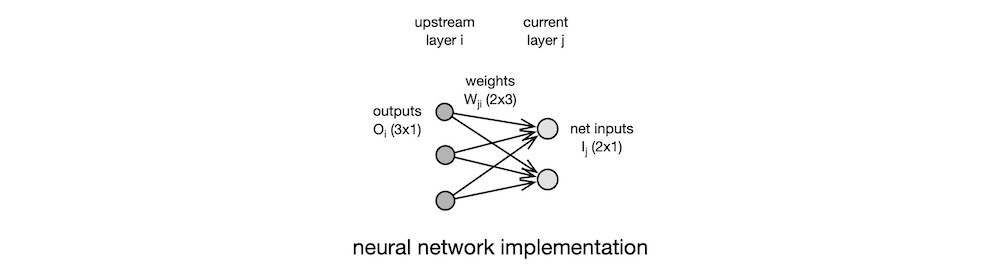
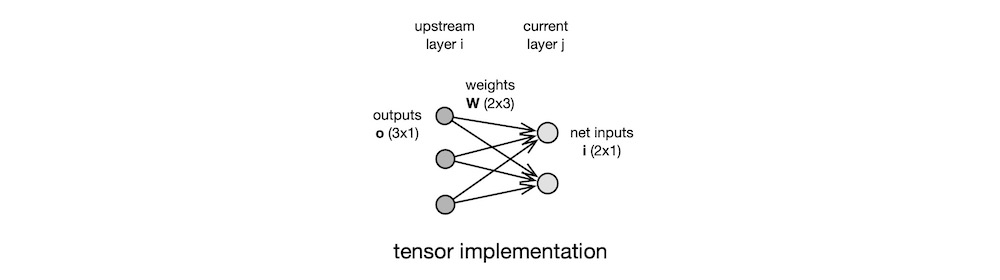
tidy

diff --git a/stem/AI/HowAIWorks.md b/stem/AI/HowAIWorks.md
@@ -117,17 +117,23 @@ A more recent use of NNs is in *generating*. It is now possible to train an NN o
 
 There are many variants of NN architectures and algorithms, and there are endless varieties of non-NN AI techniques. But as I mentioned above, this article is not a survey of the state-of-the-art; it focuses on the fundamental NN concepts that will enable you to comprehend how modern AI work. To that end, I describe in this section two classic networks, one unsupervised and the other supervised, and a handful of commonly used DL architectures. I also explain below a few important feature extraction techniques.
 
+One who learned calculus in high school is expected to be able to solve general, rate-related problems that he will encounter in his future STEM career. Likewise, a network that learned a data set drawn from a problem domain is expected to solve general problems in that domain. Yet, classic NNs were susceptible to over specialisation, which severely constrain their ability generalise. The over-specialisation problem was particularly acute in the old days, when data sets were small and networks smaller. Numerous techniques were developed to tackle this problem, but the biggest hurdle was the availability of a representative data set that covered the sample space adequately. This problem has been eliminated in the Era of Data. And modern DL algorithms have sophisticated ways to avoid over specialisation.
+
 ## *vectors, matrices, and tensors*
 
-Before we delve into the algorithms, I would like to digress into the matter of implementation. Modern implementations of NN algorithms use first-order tensors (vectors), second-order tensors (matrices), and higher-order tensors. Conventionally, 1D data (audio signal, seismic signal, etc.) are represented with column vectors, 2D data (photographs, satellite images, etc.) are represented with matrices, and 3D data (volumetric simulation state, CT scan, etc.) are represented with tensors. Hence, a data set of 1D vectors forms a 2D matrix, a data set of 2D matrices forms a 3D tensor, and a data set of 3D tensors form a 4D tensor. Furthermore, the weights $w_{ji}$ of a layer of neurons is represented with a matrix, and multiple layers of weights thus form a 3D tensor.
+Before we delve into the algorithms, I would like to digress into the matter of implementation. Modern implementations of NN algorithms use zero-order tensors (scalars), first-order tensors (vectors), second-order tensors (matrices), and higher-order tensors. Conventionally, 1D data (audio signal, seismic record, etc.) are represented with column vectors, 2D data (photographs, satellite images, etc.) are represented with matrices, and 3D data (CFD simulation, CT scan, etc.) are represented with tensors. A collection of 1D vectors forms a 2D matrix, a collection of 2D matrices forms a 3D tensor, a collection of 3D tensors form a 4D tensor, and so on. Furthermore, all the weights $w_{ji}$ of a layer of neurons is represented with a matrix, so the collection of all weight layers in the network forms a 3D tensor.
 
-Say, we have a layer of neurons $n_j$, whose weights $w_{ji}$ are represented with the matrix $W$. The row vector $W_j$ represents the weights associated with the connections coming from all the neurons $n_i$ in the upstream layer into the single neuron $n_j$ in the current layer. The scalar $W_{ji}$ is the weight associated with a single connection. So, we may compute the net inputs of all the neurons $n_j$ in the current layer with a single matrix multiplication: $i = W\, o$.
+Say, we have a layer of neurons $n_j$, whose weights $w_{ji}$ are represented with the matrix $\textbf{W}$. The row vector $\textbf{W}_j$ represents the weights associated with the connections coming from all the neurons $n_i$ in the upstream layer into the single neuron $n_j$ in the current layer. The scalar $\textbf{W}_{ji}$ is the weight associated with a single connection. So, we may compute the net inputs of all the neurons $n_j$ in the current layer with a single matrix multiplication: $\textbf{i} = \textbf{W}\, \textbf{o}$.
 
-Let us look at a concrete example. If the upstream layer has 3 neurons and the current layer has 2, as shown in the figure below, then the outputs of the neurons in the upstream layer are represented with a $3 × 1$ vector $o$, the weights between the two layers are represented with a $2 × 3$ matrix $W$, and the net inputs of the neurons in the current layer are represented with a $2 × 1$ vector $i$.
+Let us make this example a bit more concrete. If the upstream layer has 3 neurons and the current layer has 2 neurons, as shown in the figure below, then the outputs of the neurons in the upstream layer are represented with a $3 × 1$ vector $\textbf{o}$, the weights between the two layers are represented with a $2 × 3$ matrix $\textbf{W}$, and the net inputs of the neurons in the current layer are represented with a $2 × 1$ vector $\textbf{i}$.
 
 ![tensor implementation](../figures/AI/Implementation.jpg)
 
 Tensor notation is efficient on paper because it is clear and compact, and tensor implementation is efficient on computer because a modern GPU contains dedicated hardware that performs tensor operations in parallel.
+
+Here is a cautionary anecdote. When NNs emerged from their long, AI-Winter hibernation in the late 1980s, C++ was setting the IT industry ablaze, bringing object-oriented (OO) software technology to cheap IBM PCs running DOS. Windows 3.x, the first practical GUI for the PC was looming over the horizon. There was much pent-up desire among the PC programmers to bring Mac-like fancy GUI applications to PC and to exploit the power of OO using the new-fangled C++. This [irrational exuberance](https://en.wikipedia.org/wiki/Irrational_exuberance) led astray many PC-based NN software designers: they modelled the individual neurons as objects and constructed GUIs that forced the users to hand draw network architectures with a mouse. Such implementations were cumbersome to configure and slow to simulate, especially on anaemic 8086-based PCs.
+
+A lesson we can draw from that episode is this: when engineering a product, do not be seduced by the newest trends; instead, follow the engineering principle that dictates features, techniques, and technologies fit the need. Trends are ephemeral, but principles perennial.
 
 ## *feature extraction*
 
@@ -143,7 +149,7 @@ Today, DLs have all but eliminated this hurdle. Many powerful feature extraction
 
 ## *unsupervised learning*
 
-Unsupervised learning is called as such, because it does not require the user to include in the training data the desired targets. Perhaps the best known unsupervised learning algorithm is Kohonen's self-organising map (SOM). In simple terms, SOM is an unsupervised clustering algorithm. Its neurons are organised in an $m × n$ grid, as shown below. The input is a set of normalised pattern vectors: $I = \{i\ |\ i\ \text{is a feature vector}\}$. A pattern vector's elements are the features extracted during the earlier preprocessing phase. A pattern with $D$ elements is, thus, a vector in a $D$-dimensional vector space: $i \in R^D$. Every element of the input pattern vector is connected to every neuron via a weighted connection. Hence, a neuron $n_j$'s input weights form a vector $w_j$. Obviously, the lengths of the vectors $i$ and $w_j$ are the same: $|i| = |w_j| = D$.
+Unsupervised learning is called as such, because it does not require the user to include in the training data the desired targets. Perhaps the best known unsupervised learning algorithm is Kohonen's self-organising map (SOM). In simple terms, SOM is an unsupervised clustering algorithm. Its neurons are organised in an $m × n$ grid, as shown below. The input is a set $I = \{i\}$, where $i$ is a normalised pattern vector. A pattern vector's elements are the individual features extracted during earlier manual preprocessing phase. A pattern with $D$ elements is a vector in a $D$-dimensional vector space: $i \in R^D$. Every element of the input pattern vector is connected to every neuron via a weighted connection. Hence, a neuron $n_j$'s input weights form a vector $w_j$. Obviously, the lengths of vectors $i$ and $w_j$ are identical: $|i| = |w_j| = D$.
 
 ![self-organising map](../figures/AI/SelfOrganisingMap.jpg)
 
@@ -177,7 +183,7 @@ On the other hand, if $n_j$ is a hidden-layer neuron, its back-propagated error 
 
 The above error back-propagating procedure for computing the individual weight changes $\Delta_p w_{ji}$ for all the layers is the essence of the BP learning algorithm. In simplest terms, this learning procedure minimises the network's total error $E$ across the entire input data set by tweaking the weights $w_{ji}$. The error function $E$ is a surface in the $W$-dimensional vector space, where $W$ is the number of weights. At the start of the learning process, this surface is like a massive, wrinkly tent draped haphazardly atop the many poles, each pole being a weight. During learning, the network incrementally pulls the tent taut by nudging the poles into position, one at a time, a little bit at a time. When the surface has become acceptably smooth, the network is deemed to have completed learning the task. As with all analogies, this one, too, is full of holes. But it does provide a relatable visual of the seething, dynamic processes occurring within a hyper-dimensional vector space.
 
-No one uses the classic BP, but everyone uses a modified version thereof. Indeed, DLs are much larger (in both breadth and depth) and much more powerful variants of BP.
+No one uses the classic BP, but everyone uses a modified version thereof. DLs are much larger (in both breadth and depth) and much more powerful variants of BP.
 
 
 ## *deep learning*
@@ -209,3 +215,7 @@ All AI researchers should be familiar with the classic works by the likes of McC
 I offer this warning: they who admire only the newest and the most fashionable learn nothing from history, and they lack the requisite background in the field. It is also important to realise that knowing how to code an AI application using API calls is not the same as understanding what that application is actually doing. Those who use AI without comprehending its strengths, weaknesses, and ethical implications bring no long-term benefits to society. Indeed, they maybe doing more harm than good to humanity.
 
 Lastly, the public must recognise that the founders and directors of Internet Giants do not necessarily understand the AI technologies their companies are using. Under corporate law, the chief executive of a corporation is responsible for maximising the shareholders' return on investment. This legal mandate often conflicts with moral and social concerns of the public. The IT executives should wield their powers, by all means; but they ought to act in a socially responsible manner. When these large, powerful international conglomerates wilfully breach the public's trust, the only recourse is the law. In a democracy, the law derives its powers from the public. As such, the public must exercise its duty to study the impacts and trends of AI technologies and to monitor the activities of AI users.
+
+## *resources*
+
+for current and aspiring practitioners

diff --git a/stem/ComputingHistory/HowSlideRulesWork.md b/stem/ComputingHistory/HowSlideRulesWork.md
@@ -33,7 +33,7 @@ But then, in 1972, HP released its first programmable scientific calculator, the
 
 It was around this time that I arrived at the university—in [Burma](https://en.wikipedia.org/wiki/Myanmar). In those days, electronic pocket calculators were beyond the reach of most Burmese college students. To ensure fairness, [my engineering college](https://en.wikipedia.org/wiki/Yangon_Technological_University) insisted that all students used the government-issued slide rule, which was readily accessible to everyone. Many classrooms in my college had large, wall-mounted [demonstration slide rules](https://sliderulemuseum.com/DemoSR.htm) to teach first-year students how properly to use the slide rule like an engineer—that is, to eradicate the bad habits learned in high school. As engineering students, we carried the slide rule upon our person, daily.
 
-I subsequently emigrated to the US. Arrival in the US ended my association with the slide rule because, by the 1980s, American engineers were already using [HP RPN pocket calculators](https://www.hpmuseum.org) and [MATLAB](https://www.mathworks.com/products/matlab.html) technical computing software on the [IBM PC](https://en.wikipedia.org/wiki/IBM_Personal_Computer). I soon became an HP calculator devotee. As such, I never got to use the slide rule extensively in a professional setting. But I hung on to my student slide rules: the government-issued Aristo 0968 Studio, a straight rule, and the handed-down Faber-Castell 8/10, a circular rule. To this day, I remain partial to the intimate, tactile nature of the slide rule, especially the demands it places upon the user's mind. Over the next four decades, I collected many slide rules, dribs and drabs. The models in my collection are the ones I admired as an engineering student in Burma, but were, then, beyond reach.
+I subsequently emigrated to the US. Arrival in the US ended my association with the slide rule because, by the 1980s, American engineers were already using [HP RPN pocket calculators](https://www.hpmuseum.org) and [MATLAB](https://www.mathworks.com/products/matlab.html) technical computing software on the [IBM PC](https://en.wikipedia.org/wiki/IBM_Personal_Computer). I soon became an [HP calculator devotee](./HowRPNCalculatorsWork.md). As such, I never got to use the slide rule extensively in a professional setting. But I hung on to my student slide rules: the government-issued Aristo 0968 Studio, a straight rule, and the handed-down Faber-Castell 8/10, a circular rule. To this day, I remain partial to the intimate, tactile nature of the slide rule, especially the demands it places upon the user's mind. Over the next four decades, I collected many slide rules, dribs and drabs. The models in my collection are the ones I admired as an engineering student in Burma, but were, then, beyond reach.
 
 In its heyday, everyone uses the slide rule in every facet of life. As children, we saw it being used everywhere, so we were acquainted with it, even if we did not know how to use it. We were taught to use the slide rule's basic facilities in middle school. Our options were the abacus, the log books, or the slide rule. The choice was abundantly clear: we enthusiastically took up the slide rule; it was a rite of passage. Now, though, even the [brightest engineering students](https://youtu.be/CblhxhnSymg) in the world have never heard of a slide rule, let alone know how it works.
 
